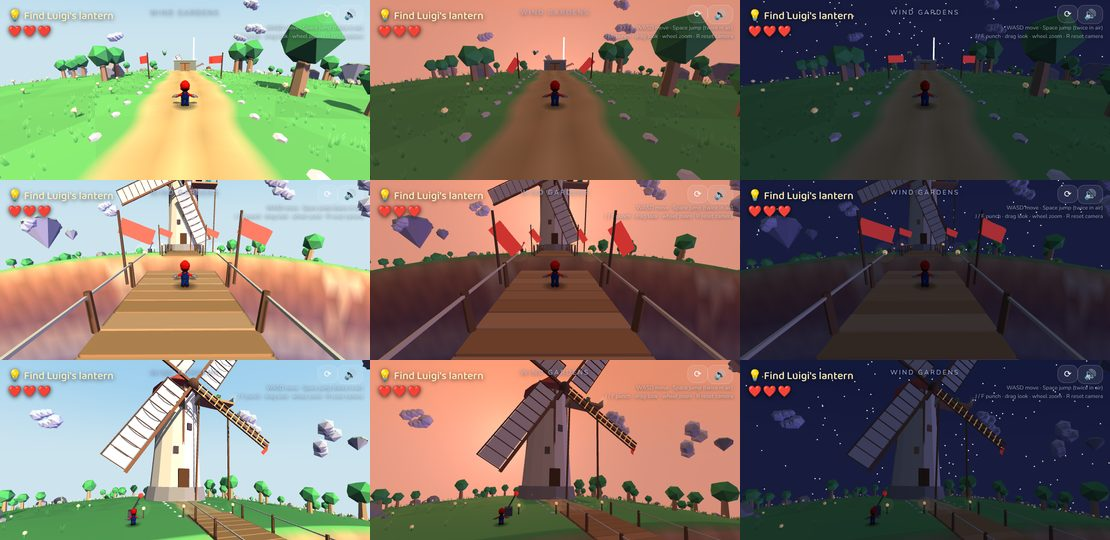
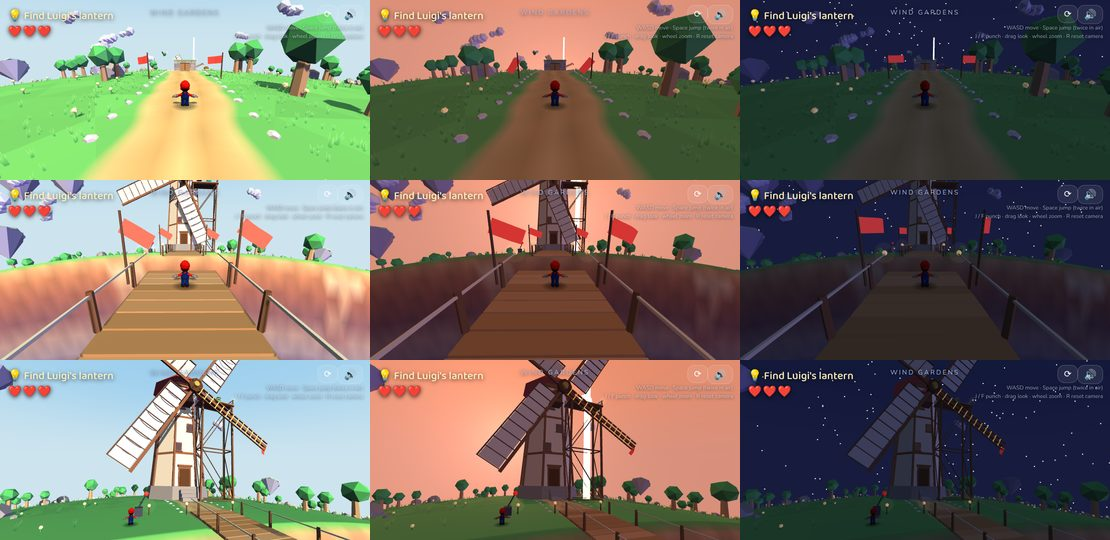
Wind Gardens windmill: eight-sided tower, cap, shaft housing, hub cap, plank balcony and trestle (#5)
Claude-Session: https://claude.ai/code/session_01KSroyHHwnQYbn2C2XoCt4L

diff --git a/js/wind-gardens.js b/js/wind-gardens.js
@@ -202,6 +202,16 @@ const WindGardens = (() => {
     seg = seg || 10;
     return new THREE.Mesh(kitGeometry("c" + rt + "," + rb + "," + h + "," + seg, () => new THREE.CylinderGeometry(rt, rb, h, seg)), kitMaterial(color, opts));
   }
+  // a box from a to b (in the parent's frame), w thick
+  const _bz = new V3(0, 0, 1);
+  function strut(parent, a, b, w, color) {
+    const d = new V3().subVectors(b, a), len = d.length();
+    const m = box(w, w, +len.toFixed(2), color);
+    m.position.copy(a).add(b).multiplyScalar(0.5);
+    m.quaternion.setFromUnitVectors(_bz, d.normalize());
+    parent.add(m);
+    return m;
+  }
   function add(parent, obj, x, y, z) { obj.position.set(x || 0, y || 0, z || 0); parent.add(obj); return obj; }
 
   function makeFlag(s, l, h, height) {
@@ -785,32 +795,83 @@ const WindGardens = (() => {
 
     // ---------- windmill ----------
     const towerG = new THREE.Group();
-    const tower = cyl(mill.towerR - 1.4, mill.towerR, mill.towerH, 14, 0xf0e2c0);
-    tower.position.y = mill.towerH / 2; towerG.add(tower);
-    const roof = new THREE.Mesh(new THREE.ConeGeometry(mill.towerR + 0.8, 7, 14), H.mat(0xb94c3a));
-    roof.position.y = mill.towerH + 3.2; towerG.add(roof);
-    for (let k = 0; k < 4; k++) add(towerG, box(0.4, mill.towerH, 0.5, 0x8a5a3b), Math.cos(k * 1.57) * (mill.towerR - 0.9), mill.towerH / 2, Math.sin(k * 1.57) * (mill.towerR - 0.9));
+    let tower, roof;
+    const TR = mill.towerR, TH = mill.towerH, rAt = (y) => TR - 1.4 * (y / TH);
     if (FX.windmill) {
-      // stone foot, a door and windows facing the route; the windows glow at night
-      add(towerG, cyl(mill.towerR + 0.5, mill.towerR + 0.9, 2.6, 14, 0x9a948a), 0, 1.3, 0);
-      const rAt = (y) => mill.towerR - 1.4 * (y / mill.towerH);
-      add(towerG, box(2.2, 3.6, 0.5, 0x5a3a22), 0, 2.6 + 1.8, rAt(4.4) + 0.05);
-      windowMat = new THREE.MeshStandardMaterial({ color: 0x3a3040, emissive: 0xffc060, emissiveIntensity: 0.1, roughness: 0.6 });
-      for (const [y, x] of [[10, -1.6], [15.5, 1.4], [21, -0.6]]) {
-        const win = add(towerG, new THREE.Mesh(new THREE.BoxGeometry(1.1, 1.5, 0.4), windowMat), x, y, rAt(y) - 0.05);
-        win.rotation.y = Math.atan2(x, rAt(y));
+      // An eight-sided tower (issue #5): a flat face toward the route, timber battens on the
+      // corners, two timber bands, a stone foot with steps up to the door, framed windows, and an
+      // eight-sided cap on a timber curb with a finial. The corners sit 4% outside the collision
+      // cylinder, so the flat faces stay close to where the hero is stopped.
+      const OCT = 1.04, ROT = Math.PI / 8, COS8 = Math.cos(Math.PI / 8);
+      const apo = (y) => rAt(y) * OCT * COS8;                          // distance to a flat face
+      const wood = 0x8a5a3b, wall = 0xf0e2c0, stone = 0x9a948a;
+      tower = cyl((TR - 1.4) * OCT, TR * OCT, TH, 8, wall);
+      tower.position.y = TH / 2; tower.rotation.y = ROT; towerG.add(tower);
+      add(towerG, cyl(TR * OCT + 0.6, TR * OCT + 0.95, 2.6, 8, stone), 0, 1.3, 0).rotation.y = ROT;
+      for (let k = 0; k < 8; k++) {                                    // corner battens, following the taper
+        const a = ROT + k * Math.PI / 4, sa = Math.sin(a), ca = Math.cos(a);
+        const r0 = TR * OCT + 0.08, r1 = rAt(TH) * OCT + 0.08;
+        strut(towerG, new V3(sa * r0, 2.6, ca * r0), new V3(sa * r1, TH, ca * r1), 0.38, wood);
       }
-      add(towerG, new THREE.Mesh(new THREE.TorusGeometry(mill.towerR - 1.35, 0.25, 6, 20), H.mat(0x8a5a3b)), 0, mill.towerH - 0.2, 0).rotation.x = Math.PI / 2;
+      for (const y of [9.5, 18]) {                                    // timber bands
+        const ring = new THREE.Mesh(new THREE.CylinderGeometry(rAt(y + 0.25) * OCT + 0.1, rAt(y - 0.25) * OCT + 0.1, 0.5, 8, 1, true), kitMaterial(wood));
+        ring.position.y = y; ring.rotation.y = ROT; towerG.add(ring);
+      }
+      // door, frame and steps on the route side
+      const zd = apo(4.4);
+      add(towerG, box(2.7, 4.1, 0.3, wood), 0, 2.6 + 2.05, zd - 0.02);
+      add(towerG, box(2.1, 3.5, 0.4, 0x5a3a22), 0, 2.6 + 1.75, zd + 0.05);
+      add(towerG, box(3.1, 0.35, 0.6, wood), 0, 2.6 + 4.15, zd + 0.15);
+      const foot = TR * OCT + 0.95;
+      [[2.0, 0.55], [1.3, 1.15], [0.65, 1.75]].forEach(([hgt, out]) => add(towerG, box(2.8, hgt, 0.6, stone), 0, hgt / 2, foot + out - 0.3));
+      // framed windows with sills; they glow at night
+      windowMat = new THREE.MeshStandardMaterial({ color: 0x3a3040, emissive: 0xffc060, emissiveIntensity: 0.1, roughness: 0.6 });
+      const lean = Math.atan(1.4 * OCT * COS8 / TH);
+      for (const [y, x] of [[10.8, -1.4], [15.5, 1.3], [21, -0.6]]) {
+        const z = apo(y);
+        const fr = add(towerG, box(1.55, 1.95, 0.22, wood), x, y, z); fr.rotation.x = lean;
+        const win = add(towerG, new THREE.Mesh(new THREE.BoxGeometry(1.1, 1.5, 0.3), windowMat), x, y, z + 0.06); win.rotation.x = lean;
+        add(towerG, box(1.8, 0.18, 0.45, wood), x, y - 1.0, z + 0.2);
+      }
+      // cap: a timber curb, an eight-sided roof with a deep overhang, and a finial
+      const curbR = rAt(TH) * OCT + 0.35;
+      add(towerG, cyl(curbR, curbR, 0.9, 8, wood), 0, TH + 0.45, 0).rotation.y = ROT;
+      roof = new THREE.Mesh(new THREE.ConeGeometry(TR + 1.2, 6.8, 8), H.mat(0xb94c3a));
+      roof.position.y = TH + 0.9 + 3.4; roof.rotation.y = ROT; towerG.add(roof);
+      add(towerG, cyl(0.12, 0.12, 2.2, 6, 0x5a3a22), 0, TH + 0.9 + 6.8 + 0.9, 0);
+      add(towerG, new THREE.Mesh(new THREE.SphereGeometry(0.42, 10, 8), H.mat(0xf2c24a, { emissive: 0x8a5a10, emissiveIntensity: 0.3, roughness: 0.4 })), 0, TH + 0.9 + 6.8 + 2.1, 0);
+    } else {
+      tower = cyl(TR - 1.4, TR, TH, 14, 0xf0e2c0);
+      tower.position.y = TH / 2; towerG.add(tower);
+      roof = new THREE.Mesh(new THREE.ConeGeometry(TR + 0.8, 7, 14), H.mat(0xb94c3a));
+      roof.position.y = TH + 3.2; towerG.add(roof);
+      for (let k = 0; k < 4; k++) add(towerG, box(0.4, TH, 0.5, 0x8a5a3b), Math.cos(k * 1.57) * (TR - 0.9), TH / 2, Math.sin(k * 1.57) * (TR - 0.9));
     }
     group.add(put(towerG, mill.towerS, 0, 0));
     colliders.push(tower, roof);
 
     // axle from the blade hub back to the tower, hub on the plane s = hubS
-    const axle = box(0.7, 0.7, mill.towerS - mill.towerR - mill.hubS + 0.6, 0x6b4b34);
-    group.add(put(axle, (mill.hubS + mill.towerS - mill.towerR) / 2, 0, mill.hubH));
+    const faceS = mill.towerS - rAt(mill.hubH) * (FX.windmill ? 1.04 * Math.cos(Math.PI / 8) : 1);
+    const axle = box(0.7, 0.7, faceS - mill.hubS + 0.4, 0x6b4b34);
+    group.add(put(axle, (mill.hubS + faceS + 0.4) / 2, 0, mill.hubH));
+    if (FX.windmill) {
+      // a timber housing where the shaft leaves the tower, with a small pitched roof
+      const hl = 2.4, hs = faceS - hl / 2 + 0.3;
+      const hous = new THREE.Group();
+      add(hous, box(2.4, 2.4, hl, 0x7a5233), 0, 0, 0);
+      add(hous, box(2.7, 0.25, hl + 0.3, 0x5a3a22), 0, -1.2, 0);
+      for (const sx of [-1, 1]) add(hous, box(1.75, 0.18, hl + 0.4, 0xb94c3a), sx * 0.62, 1.55, 0).rotation.z = -sx * 0.62;
+      group.add(put(hous, hs, 0, mill.hubH));
+    }
     const bladeRoot = new THREE.Group();
     group.add(put(bladeRoot, mill.hubS, 0, mill.hubH));
     add(bladeRoot, new THREE.Mesh(new THREE.SphereGeometry(1.1, 12, 10), H.mat(0x6b4b34)), 0, 0, 0);
+    if (FX.windmill) {
+      // hub cap and bolts, turning with the blades
+      add(bladeRoot, cyl(1.45, 1.45, 0.7, 8, 0x5a3a22), 0, 0, 0.45).rotation.x = Math.PI / 2;
+      add(bladeRoot, cyl(0.55, 0.75, 0.6, 8, 0xc8a24a), 0, 0, 0.95).rotation.x = Math.PI / 2;
+      for (let k = 0; k < 4; k++) add(bladeRoot, new THREE.Mesh(new THREE.SphereGeometry(0.16, 6, 5), kitMaterial(0x3a3a40)), Math.cos(k * 1.571 + 0.785) * 1.05, Math.sin(k * 1.571 + 0.785) * 1.05, 0.85);
+    }
     for (let i = 0; i < 4; i++) {
       const g = makeBlade(i, i === 0);
       bladeRoot.add(g);
@@ -820,12 +881,48 @@ const WindGardens = (() => {
     // balcony
     const balG = new THREE.Group();
     const bw = bal.l1 - bal.l0, bd = bal.s1 - bal.s0;
-    add(balG, box(bw, 0.5, bd, 0xc8935a), 0, -0.25, 0);
-    for (const sx of [-1, 1]) add(balG, box(0.14, 1.2, bd, 0xf1e3b8), sx * (bw / 2 - 0.07), 0.6, 0);
-    add(balG, box(bw, 1.2, 0.14, 0xf1e3b8), 0, 0.6, -(bd / 2 - 0.07));
-    for (const sx of [-1, 1]) add(balG, box(0.3, bal.top - 0.5, 0.3, 0x7a5233), sx * (bw / 2 - 0.3), -(bal.top - 0.5) / 2 - 0.25, 0);
+    if (FX.windmill) {
+      // Plank deck on joists, an open rail on the tower side and the outer side (so the brother
+      // stays in view), no rail on the entry side (toward the hub) or the blade side. Below, a
+      // timber trestle with cross braces down to the ground. The floor top stays at bal.top.
+      add(balG, box(bw + 0.2, 0.25, bd + 0.2, 0x5a3a22), 0, -0.33, 0);
+      const plankC = [0xc8935a, 0xb8854d, 0xd4a068];
+      for (let x = -bw / 2 + 0.25, i = 0; x < bw / 2; x += 0.5, i++) add(balG, box(0.46, 0.2, bd, plankC[(i * 7) % 3]), x, -0.1, 0);
+      const railC = 0xf1e3b8, postC = 0x7a5233, x0 = -bw / 2 + 0.1, x1 = bw / 2 - 0.1, z0 = -bd / 2 + 0.1, z1 = bd / 2 - 0.1;
+      const posts = [];
+      for (let x = x0; x <= x1 + 0.01; x += (x1 - x0) / 4) posts.push([x, z0]);          // tower side
+      for (let z = z0 + (z1 - z0) / 2; z <= z1 + 0.01; z += (z1 - z0) / 2) posts.push([x1, z]); // outer side
+      posts.push([x0, z1]);                                                                   // entry corner
+      for (const [x, z] of posts) add(balG, box(0.16, 1.15, 0.16, postC), x, 0.575, z);
+      for (const y of [1.15, 0.6]) {
+        strut(balG, new V3(x0, y, z0), new V3(x1, y, z0), y > 1 ? 0.14 : 0.09, railC);
+        strut(balG, new V3(x1, y, z0), new V3(x1, y, z1), y > 1 ? 0.14 : 0.09, railC);
+      }
+    } else {
+      add(balG, box(bw, 0.5, bd, 0xc8935a), 0, -0.25, 0);
+      for (const sx of [-1, 1]) add(balG, box(0.14, 1.2, bd, 0xf1e3b8), sx * (bw / 2 - 0.07), 0.6, 0);
+      add(balG, box(bw, 1.2, 0.14, 0xf1e3b8), 0, 0.6, -(bd / 2 - 0.07));
+      for (const sx of [-1, 1]) add(balG, box(0.3, bal.top - 0.5, 0.3, 0x7a5233), sx * (bw / 2 - 0.3), -(bal.top - 0.5) / 2 - 0.25, 0);
+    }
     group.add(put(balG, (bal.s0 + bal.s1) / 2, (bal.l0 + bal.l1) / 2, bal.top));
     colliders.push(balG);
+    if (FX.windmill) {
+      // the trestle is not a camera collider: thin beams should not pull the camera in
+      const tr = new THREE.Group(), wood = 0x7a5233, brace = 0x6b4b34;
+      const xa = -bw / 2 + 0.3, xb = bw / 2 - 0.3, za = -bd / 2 + 0.3, zb = bd / 2 - 0.3, top = -0.45, bot = -bal.top;
+      for (const x of [xa, xb]) for (const z of [za, zb]) strut(tr, new V3(x, top, z), new V3(x, bot, z), 0.34, wood);
+      const levels = [top, (top + bot) / 2, bot + 0.3];
+      for (const y of levels) {
+        strut(tr, new V3(xa, y, za), new V3(xb, y, za), 0.2, brace); strut(tr, new V3(xa, y, zb), new V3(xb, y, zb), 0.2, brace);
+        strut(tr, new V3(xa, y, za), new V3(xa, y, zb), 0.2, brace); strut(tr, new V3(xb, y, za), new V3(xb, y, zb), 0.2, brace);
+      }
+      for (let k = 0; k < levels.length - 1; k++) {
+        const y0 = levels[k], y1 = levels[k + 1], f = k % 2 ? 1 : -1;
+        for (const z of [za, zb]) strut(tr, new V3(f * xa, y0, z), new V3(-f * xa, y1, z), 0.13, brace);
+        for (const x of [xa, xb]) strut(tr, new V3(x, y0, f * za), new V3(x, y1, -f * za), 0.13, brace);
+      }
+      group.add(put(tr, (bal.s0 + bal.s1) / 2, (bal.l0 + bal.l1) / 2, bal.top));
+    }
 
     // brake lever
     const lv = new THREE.Group();

diff --git a/docs/wind-gardens.md b/docs/wind-gardens.md
@@ -59,6 +59,8 @@ How the rotation works: the planet stays still and the sun direction turns aroun
 
 - Canyon: its own fine mesh (`buildCanyon`, 0.5 units along the route, finer near the route across it), displaced by the same `terrainH` the physics uses, with strata colours that darken and turn blue with depth. The coarse planet sphere is pushed out of sight under the strip.
 - Windmill: four broad blades. Three have a lattice frame and one long cloth sail that billows with `GameShared.wind`. The ladder blade has no sail, glowing rungs and a red pennant at the tip. The tower has a stone foot, a door and three windows.
+- Windmill, second pass: an eight-sided tower (corners 4% outside the collision cylinder, a flat face toward the route) with timber corner battens and two bands, a stone foot with three steps up to a framed door, framed windows with sills, an eight-sided cap with a deep overhang on a timber curb and a gold finial. A timber housing with a small pitched roof covers the shaft where it leaves the tower (the shaft used to stop short of the wall). The hub has a cap and bolts that turn with the blades.
+- Balcony: a plank deck on joists, an open rail on the tower side and the outer side so the brother stays in view, and no rail on the entry side (toward the hub) or the blade side. Below it, a timber trestle with cross braces down to the ground. The trestle is not a camera collider. Before and after: `docs/frames/windmill-before-after.jpg`.
 - Depth: light stones along the path edges (the route also reads in greyscale), the path is lighter and the grass darker than before, and twelve low-contrast islands float far behind the route.
 - Path: its own ribbon mesh (`buildPath`) that follows `terrainH` every 0.5 units, wobbles at the edges and fades into the grass through vertex alpha. The coarse planet triangles under it keep the grass colour. It stops where the ground dips (trench, canyon).
 - Sky: a dome that follows the camera (`DayCycle`), zenith in the key frame's sky colour, horizon in the fog colour, with a soft glow around the sun. Far terrain now fades into the sky instead of a flat backdrop.
